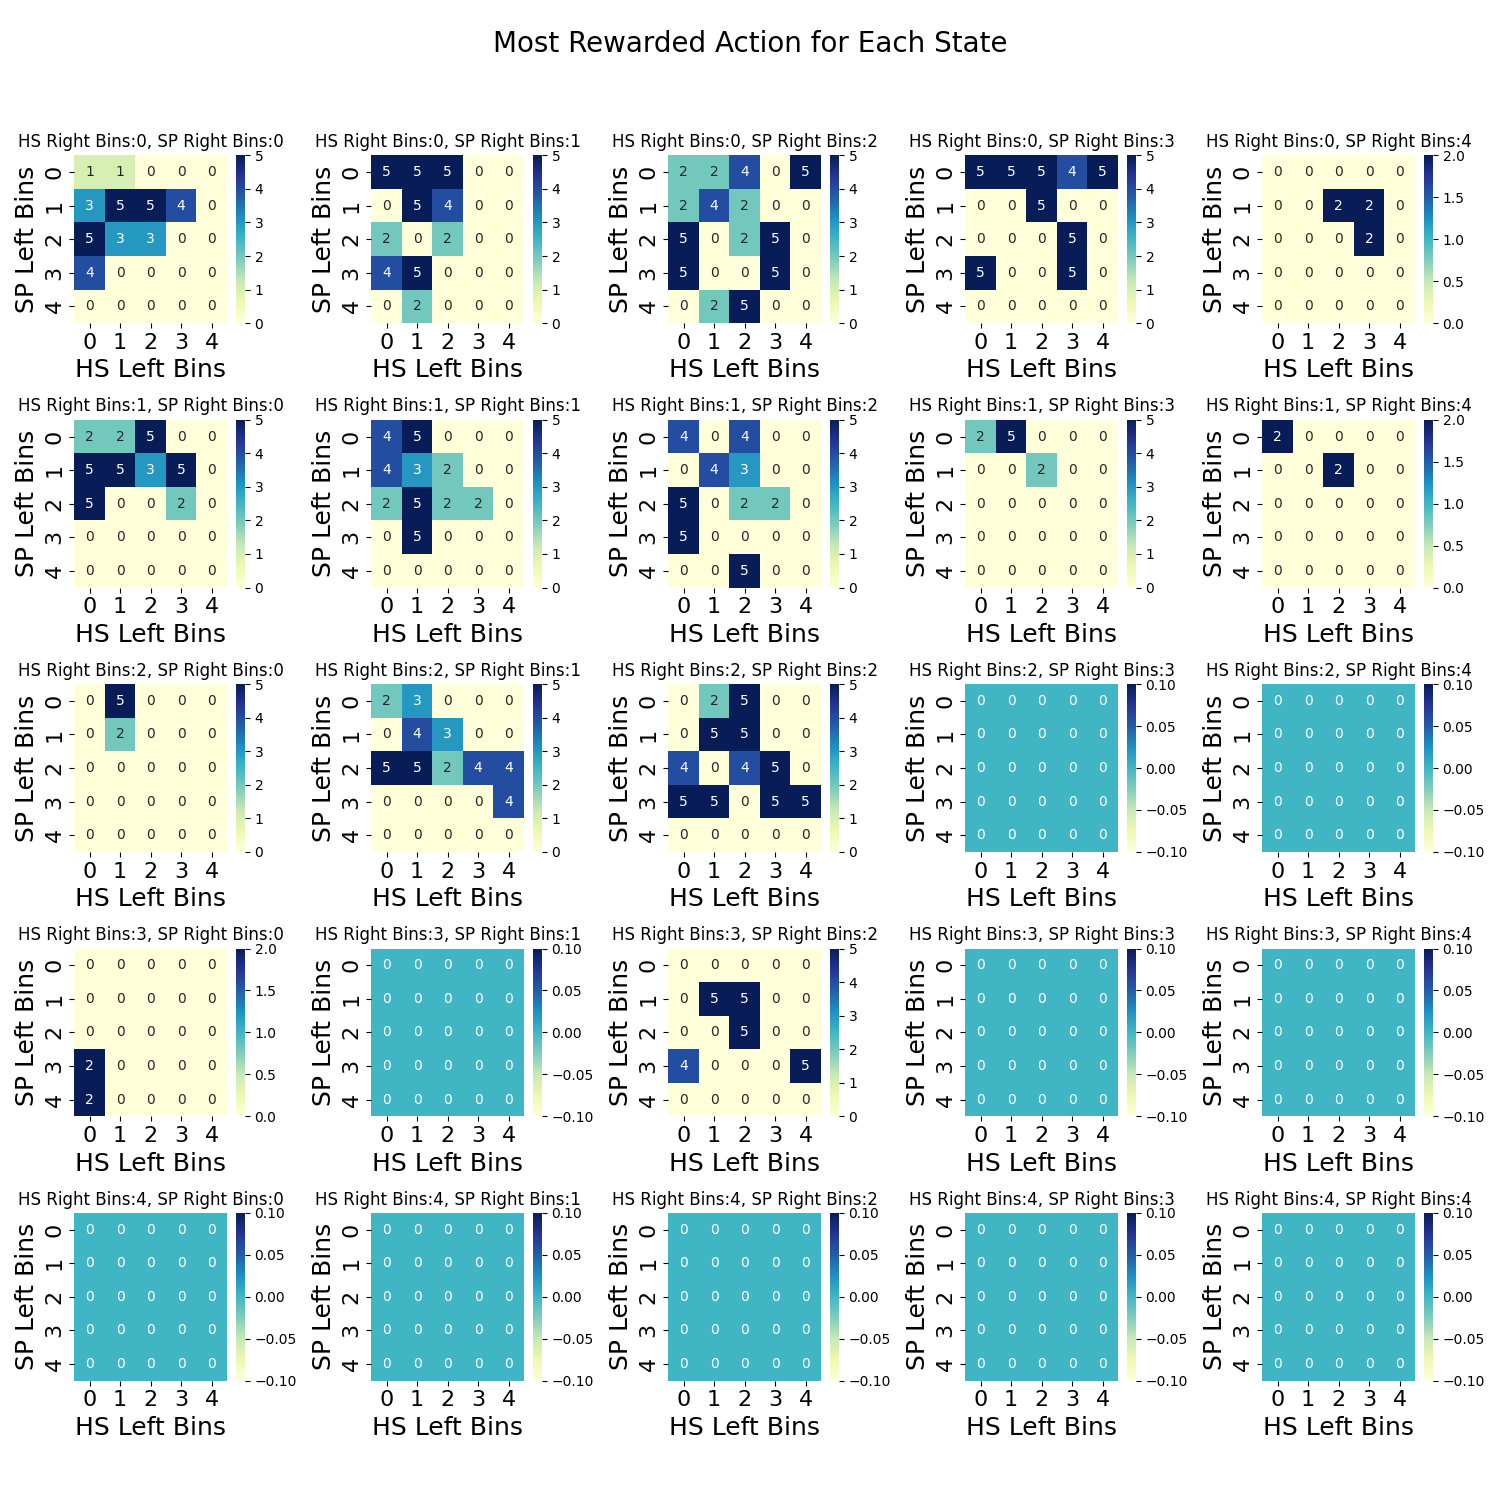
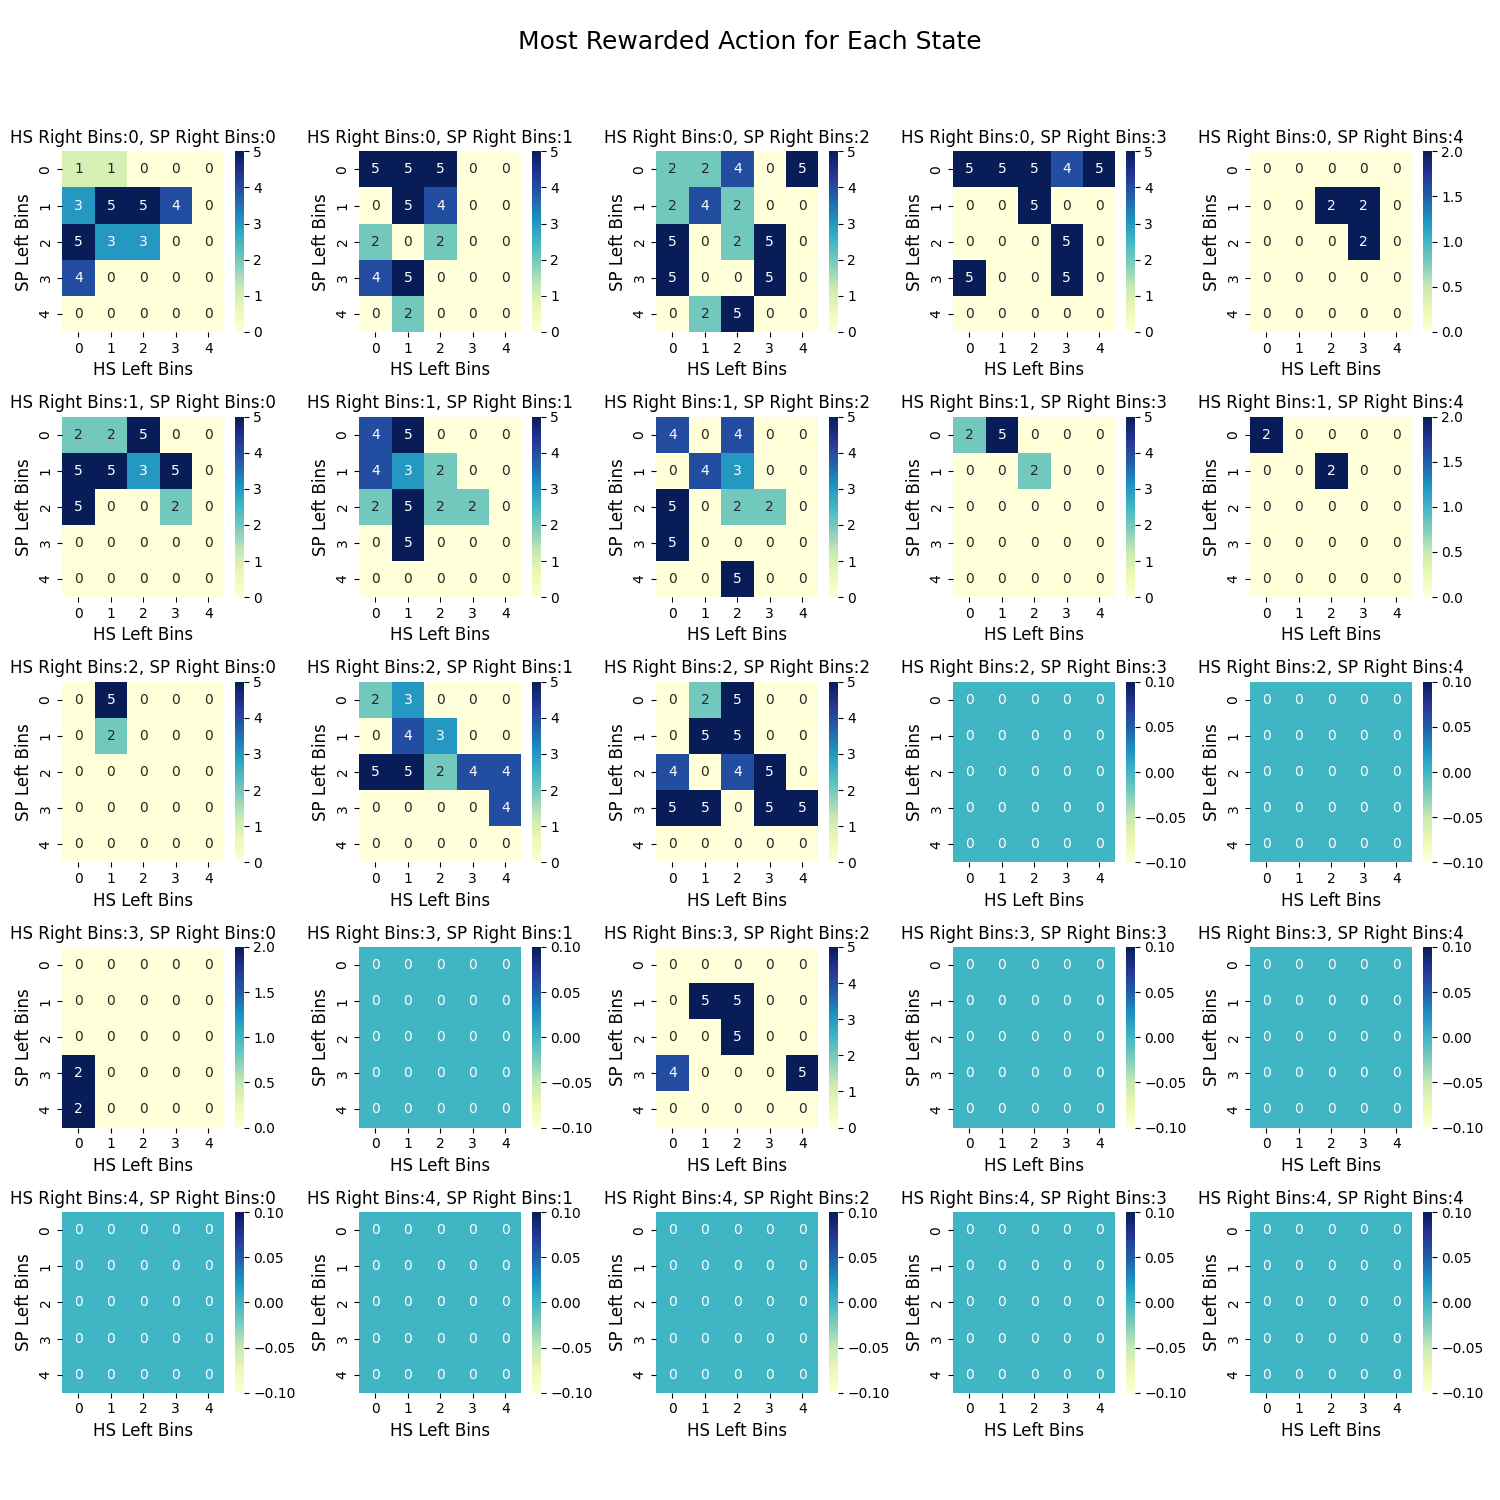
commit

Changed region(s): [[0.0, 0.092, 0.9813, 0.9813], [0.3373, 0.0, 0.6747, 0.0307]]

diff --git a/plot_evaluate.py b/plot_evaluate.py
@@ -126,15 +126,15 @@ def plot_most_rewarded_action_4d_subplots(q_values, n_bin1, n_bin2, n_bin3, n_bi
     most_rewarded_action_4d = most_rewarded_action.reshape(n_bin4, n_bin3, n_bin2, n_bin1)
     # Create subplots for different slices of the 4D state space
     fig, axes = plt.subplots(n_bin3, n_bin4, figsize=(15, 15))
-    fig.suptitle("Most Rewarded Action for Each State", fontsize=20)
+    fig.suptitle("Most Rewarded Action for Each State", fontsize=18)
     for i in range(n_bin3):
         for j in range(n_bin4):
             ax = axes[i, j]
             sns.heatmap(most_rewarded_action_4d[j, i, :, :], cmap="YlGnBu", annot=True, ax=ax)
-            ax.set_title(f"{label_bin3}:{i}, {label_bin4}:{j}", fontsize=16)
-            ax.tick_params(axis='both', which='major', labelsize=14)
-            ax.set_xlabel(label_bin1, fontsize=18)
-            ax.set_ylabel(label_bin2, fontsize=18)
+            ax.set_title(f"{label_bin3}:{i}, {label_bin4}:{j}", fontsize=12)
+            ax.tick_params(axis='both', which='major', labelsize=10)
+            ax.set_xlabel(label_bin1, fontsize=12)
+            ax.set_ylabel(label_bin2, fontsize=12)
     plt.tight_layout(rect=[0, 0.03, 1, 0.95])
     plt.savefig(test_folder + 'most_rewarded_action_heatmap_subplots.png')
 

diff --git a/train_AG.py b/train_AG.py
@@ -201,10 +201,10 @@ if mode == 'evaluate':
     # plot the Q-table
     plot_q_table(q_values, test_folder)
     # plot the action-reward subplots
-    plot_action_reward_all_combinations(q_values, n_bin1, n_bin2, n_bin3, n_bin4, n_actions, 
-                                        label_bin1, label_bin2, label_bin3, label_bin4, test_folder)
-    plot_action_reward_individual(q_values, n_bin1, n_bin2, n_bin3, n_bin4, n_actions, 
-                                  label_bin1, label_bin2, label_bin3, label_bin4, test_folder)
+    # plot_action_reward_all_combinations(q_values, n_bin1, n_bin2, n_bin3, n_bin4, n_actions, 
+    #                                     label_bin1, label_bin2, label_bin3, label_bin4, test_folder)
+    # plot_action_reward_individual(q_values, n_bin1, n_bin2, n_bin3, n_bin4, n_actions, 
+    #                               label_bin1, label_bin2, label_bin3, label_bin4, test_folder)
 
 
 if mode == 'test':
